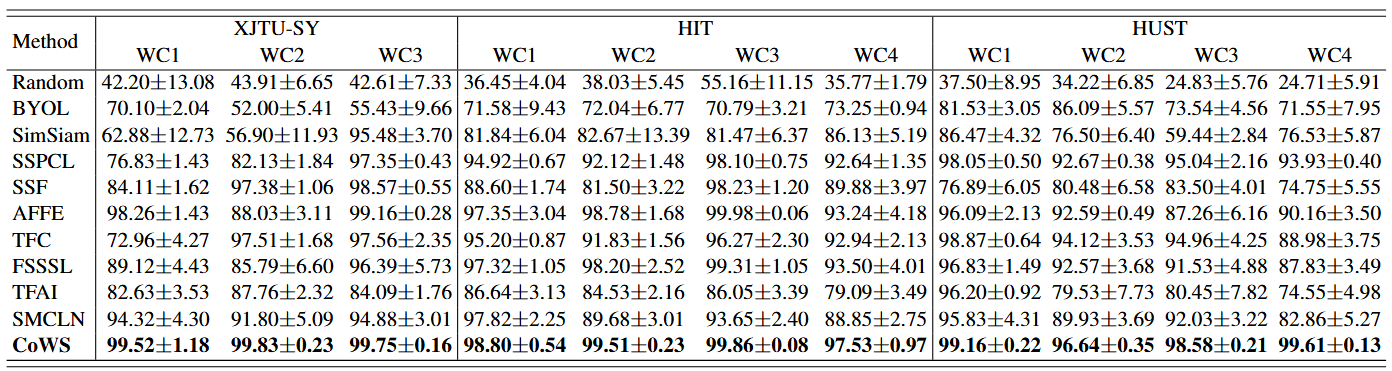
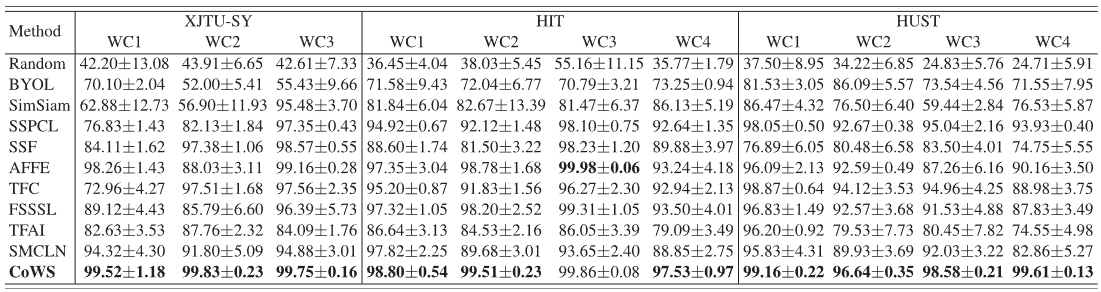
update

Changed region(s): [[0.0, 0.5548, 1.0, 1.0], [0.0, 0.0925, 1.0, 0.524], [0.0, 0.0, 1.0, 0.0925]]

diff --git a/README.md b/README.md
@@ -9,13 +9,13 @@
 [![Python](https://img.shields.io/badge/Python-3.7+-blue.svg)](https://www.python.org/)
 [![PyTorch](https://img.shields.io/badge/PyTorch-1.8+-orange.svg)](https://pytorch.org/)
 [![License](https://img.shields.io/badge/License-MIT-green.svg)](LICENSE)
-[![DOI](https://img.shields.io/badge/DOI-10.xxxx/xxxxxx-blue.svg)](https://doi.org/)
+[![DOI](https://img.shields.io/badge/DOI-10.1109/TETCI.2026.3654383-blue.svg)](https://ieeexplore.ieee.org/document/11364255)
 
 </div>
 
 ## 📖 Overview
 
-The officieal implementation of the paper: **CoWS: Self-Supervised Representation Pre-Training for Cross-Machine Fault Diagnosis**, which has been accepted by *IEEE Transactions on Emerging Topics in Computational Intelligence*.
+The officieal implementation of the paper: [**CoWS: Self-Supervised Representation Pre-Training for Cross-Machine Fault Diagnosis**](https://ieeexplore.ieee.org/document/11364255), which has been published by *IEEE Transactions on Emerging Topics in Computational Intelligence*.
 
 **CoWS (Consistent Wave and Spectrogram)** is a novel self-supervised learning method for mechanical fault diagnosis that leverages the consistency between time domain waveforms and time-frequency domain spectrograms. By learning consistent representations across these two complementary views, CoWS achieves superior performance in bearing fault diagnosis tasks.
 
@@ -107,7 +107,16 @@ python Transfer.py --tgt_data 'HUSTBearing'--tgt_load 0 --num_train 10
 If you find CoWS useful in your research, please consider citing:
 
 ```bibtex
-
+@ARTICLE{11364255,
+  author={Chen, Xiaohan and Yang, Rui and Xue, Yihao and Wang, Zidong},
+  journal={IEEE Transactions on Emerging Topics in Computational Intelligence}, 
+  title={CoWS: Self-Supervised Representation Pre-Training for Cross-Machine Fault Diagnosis}, 
+  year={2026},
+  volume={},
+  number={},
+  pages={1-13},
+  keywords={Fault diagnosis;Data models;Cows;Feature extraction;Spectrogram;Machinery;Deep learning;Training;Knowledge transfer;Brain modeling;Self-supervised learning;pre-training model;knowledge transfer;fault diagnosis},
+  doi={10.1109/TETCI.2026.3654383}}
 ```
 
 ## 📝 License
